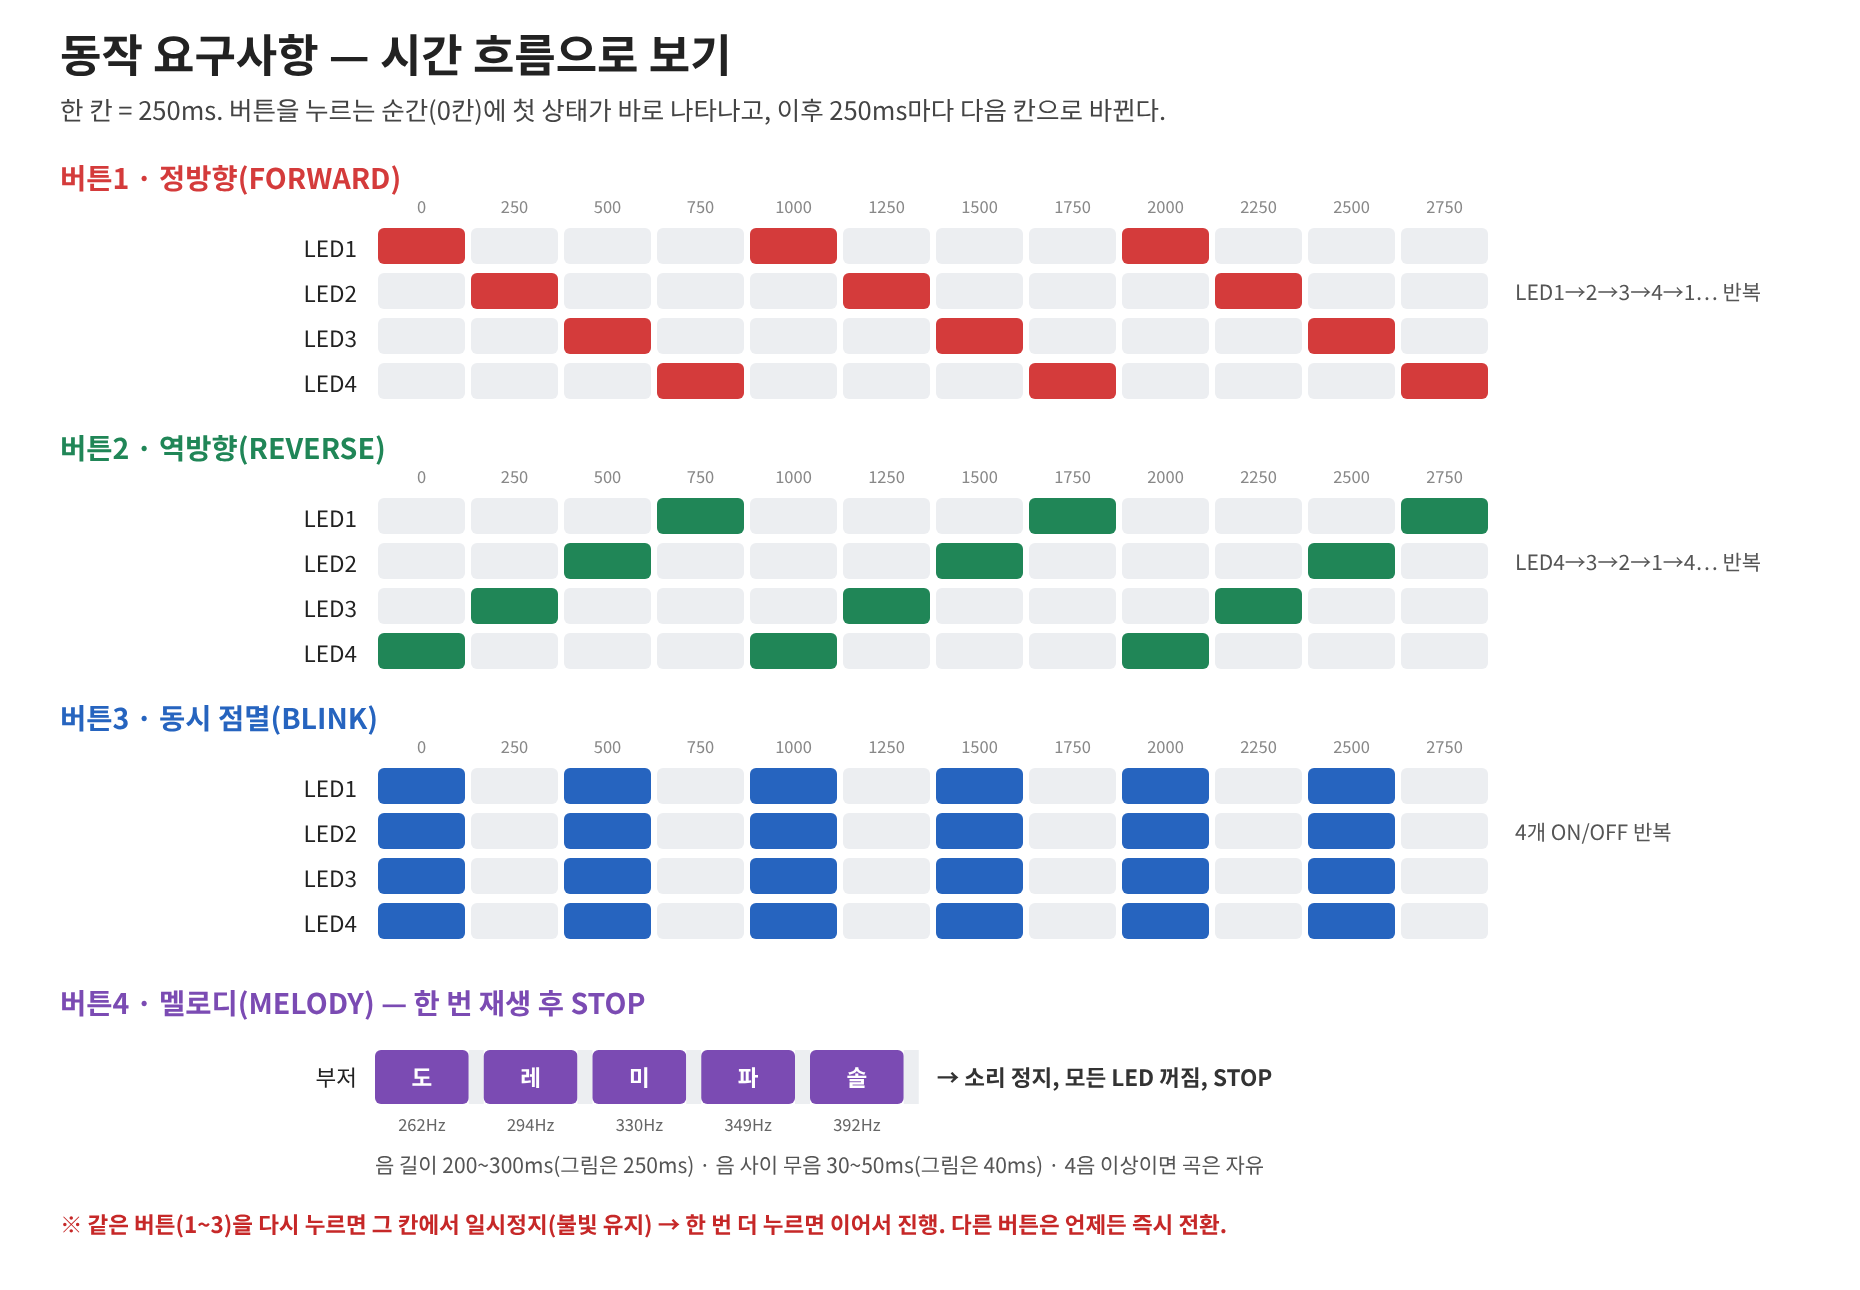
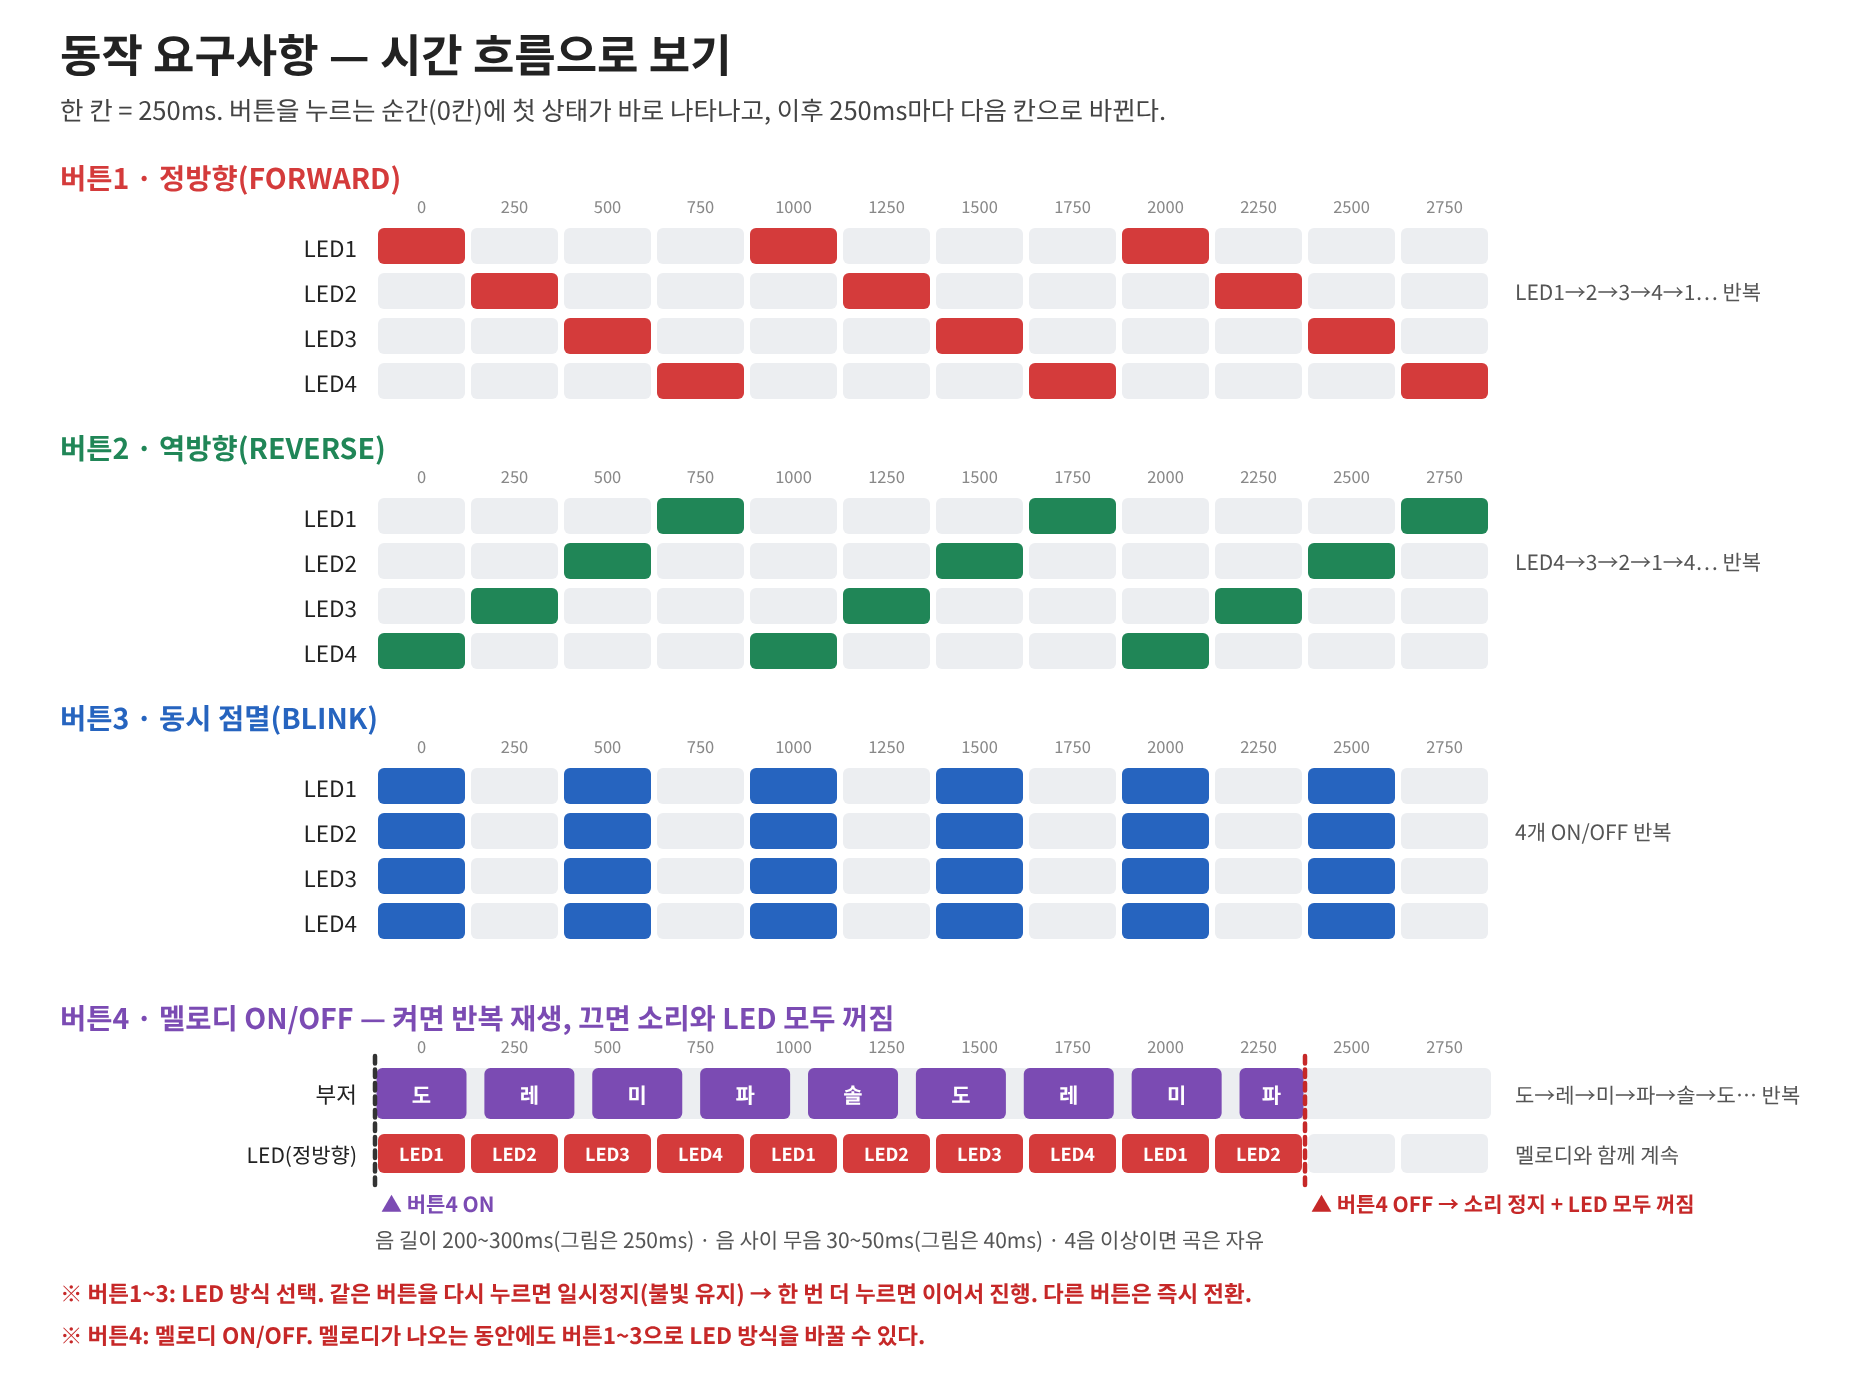
week08: 버튼4를 멜로디 ON/OFF(반복 재생, 끄면 LED 소등)로 변경 — 타이밍 그림·시작 코드 수정
Claude-Session: https://claude.ai/code/session_0176yBQ8G8XPaipVN94d31ZQ

diff --git a/week08/images/gen_figs.py b/week08/images/gen_figs.py
@@ -375,7 +375,7 @@ def parts_figure():
 
 # ------------------------------------------------------------------ 동작 타이밍
 def timing_figure():
-    W, Hh = 1240, 860
+    W, Hh = 1240, 920
     o = [T(40, 48, "동작 요구사항 — 시간 흐름으로 보기", 30, "bold"),
          T(40, 80, "한 칸 = 250ms. 버튼을 누르는 순간(0칸)에 첫 상태가 바로 나타나고, 이후 250ms마다 다음 칸으로 바뀐다.", 17, fill="#444")]
     cell, x0 = 62, 250
@@ -396,23 +396,43 @@ def timing_figure():
     o += grid(140, "버튼1 · 정방향(FORWARD)", leds_seq([1, 2, 3, 4]), C["red"], "LED1→2→3→4→1… 반복")
     o += grid(320, "버튼2 · 역방향(REVERSE)", leds_seq([4, 3, 2, 1]), C["green"], "LED4→3→2→1→4… 반복")
     o += grid(500, "버튼3 · 동시 점멸(BLINK)", [(f"LED{n}", [1, 0]) for n in (1, 2, 3, 4)], C["blue"], "4개 ON/OFF 반복")
-    # 멜로디
-    y = 690
-    o.append(T(40, y - 14, "버튼4 · 멜로디(MELODY) — 한 번 재생 후 STOP", 19, "bold", C["purple"]))
-    notes = [("도", 262), ("레", 294), ("미", 330), ("파", 349), ("솔", 392)]
-    xx = x0
-    for n, f in notes:
-        w = 250 * 0.25
-        o.append(f'<rect x="{xx}" y="{y+10}" width="{w}" height="36" rx="4" fill="{C["purple"]}"/>')
-        o.append(T(xx + w / 2, y + 34, n, 15, "bold", "white", "middle"))
-        o.append(T(xx + w / 2, y + 64, f"{f}Hz", 11, fill="#666", anchor="middle"))
-        xx += w
-        o.append(f'<rect x="{xx}" y="{y+10}" width="{40*0.25}" height="36" fill="#eceef1"/>')
-        xx += 40 * 0.25
-    o.append(T(xx + 12, y + 34, "→ 소리 정지, 모든 LED 꺼짐, STOP", 15, "bold", "#333"))
-    o.append(T(x0 - 12, y + 34, "부저", 15, anchor="end"))
-    o.append(T(x0, y + 92, "음 길이 200~300ms(그림은 250ms) · 음 사이 무음 30~50ms(그림은 40ms) · 4음 이상이면 곡은 자유", 14, fill="#555"))
-    o.append(T(40, y + 132, "※ 같은 버튼(1~3)을 다시 누르면 그 칸에서 일시정지(불빛 유지) → 한 번 더 누르면 이어서 진행.  다른 버튼은 언제든 즉시 전환.", 15, "bold", "#c62828"))
+    # 멜로디: 버튼4 ON/OFF, 재생 중 LED 패턴 동시 동작
+    y = 700
+    o.append(T(40, y - 14, "버튼4 · 멜로디 ON/OFF — 켜면 반복 재생, 끄면 소리와 LED 모두 꺼짐", 19, "bold", C["purple"]))
+    k_scale = cell / 250.0                       # px per ms (위 표와 같은 축)
+    t_on, t_off = 0, 2500                        # 예시: 0ms에 ON, 2500ms에 OFF
+    for k in range(12):
+        o.append(T(x0 + k * cell + cell / 2, y + 2, f"{k*250}", 11, fill="#888", anchor="middle"))
+    # 부저 줄
+    yy = y + 12
+    o.append(T(x0 - 12, yy + 23, "부저", 15, anchor="end"))
+    o.append(f'<rect x="{x0}" y="{yy}" width="{12*cell}" height="34" rx="4" fill="#eceef1"/>')
+    names = ["도", "레", "미", "파", "솔"]
+    t = t_on; i = 0
+    while t < t_off:
+        w = min(250, t_off - t) * k_scale
+        o.append(f'<rect x="{x0+t*k_scale+1}" y="{yy}" width="{w-2}" height="34" rx="4" fill="{C["purple"]}"/>')
+        if w > 30: o.append(T(x0 + t * k_scale + w / 2, yy + 23, names[i % 5], 14, "bold", "white", "middle"))
+        t += 290; i += 1
+    # LED 줄 (예: 정방향이 실행 중)
+    yy2 = yy + 44
+    o.append(T(x0 - 12, yy2 + 19, "LED(정방향)", 14, anchor="end"))
+    for k in range(12):
+        on = (k * 250) < t_off
+        lab = f"{k % 4 + 1}" if on else ""
+        o.append(f'<rect x="{x0+k*cell+2}" y="{yy2}" width="{cell-4}" height="26" rx="4" fill="{C["red"] if on else "#eceef1"}"/>')
+        if lab: o.append(T(x0 + k * cell + cell / 2, yy2 + 18, "LED" + lab, 12, "bold", "white", "middle"))
+    # ON / OFF 표시
+    xo = x0 + t_off * k_scale
+    o.append(line([(x0, yy - 8), (x0, yy2 + 34)], "#333", 3, "5 4"))
+    o.append(T(x0 + 4, yy2 + 52, "▲ 버튼4 ON", 14, "bold", C["purple"]))
+    o.append(line([(xo, yy - 8), (xo, yy2 + 34)], "#c62828", 3, "5 4"))
+    o.append(T(xo + 4, yy2 + 52, "▲ 버튼4 OFF → 소리 정지 + LED 모두 꺼짐", 14, "bold", "#c62828"))
+    o.append(T(x0 + 12 * cell + 16, yy + 23, "도→레→미→파→솔→도… 반복", 14, fill="#555"))
+    o.append(T(x0 + 12 * cell + 16, yy2 + 19, "멜로디와 함께 계속", 14, fill="#555"))
+    o.append(T(x0, y + 132, "음 길이 200~300ms(그림은 250ms) · 음 사이 무음 30~50ms(그림은 40ms) · 4음 이상이면 곡은 자유", 14, fill="#555"))
+    o.append(T(40, y + 168, "※ 버튼1~3: LED 방식 선택. 같은 버튼을 다시 누르면 일시정지(불빛 유지) → 한 번 더 누르면 이어서 진행. 다른 버튼은 즉시 전환.", 15, "bold", "#c62828"))
+    o.append(T(40, y + 196, "※ 버튼4: 멜로디 ON/OFF. 멜로디가 나오는 동안에도 버튼1~3으로 LED 방식을 바꿀 수 있다.", 15, "bold", "#c62828"))
     return svg(W, Hh, o)
 
 os.makedirs(OUT, exist_ok=True)
